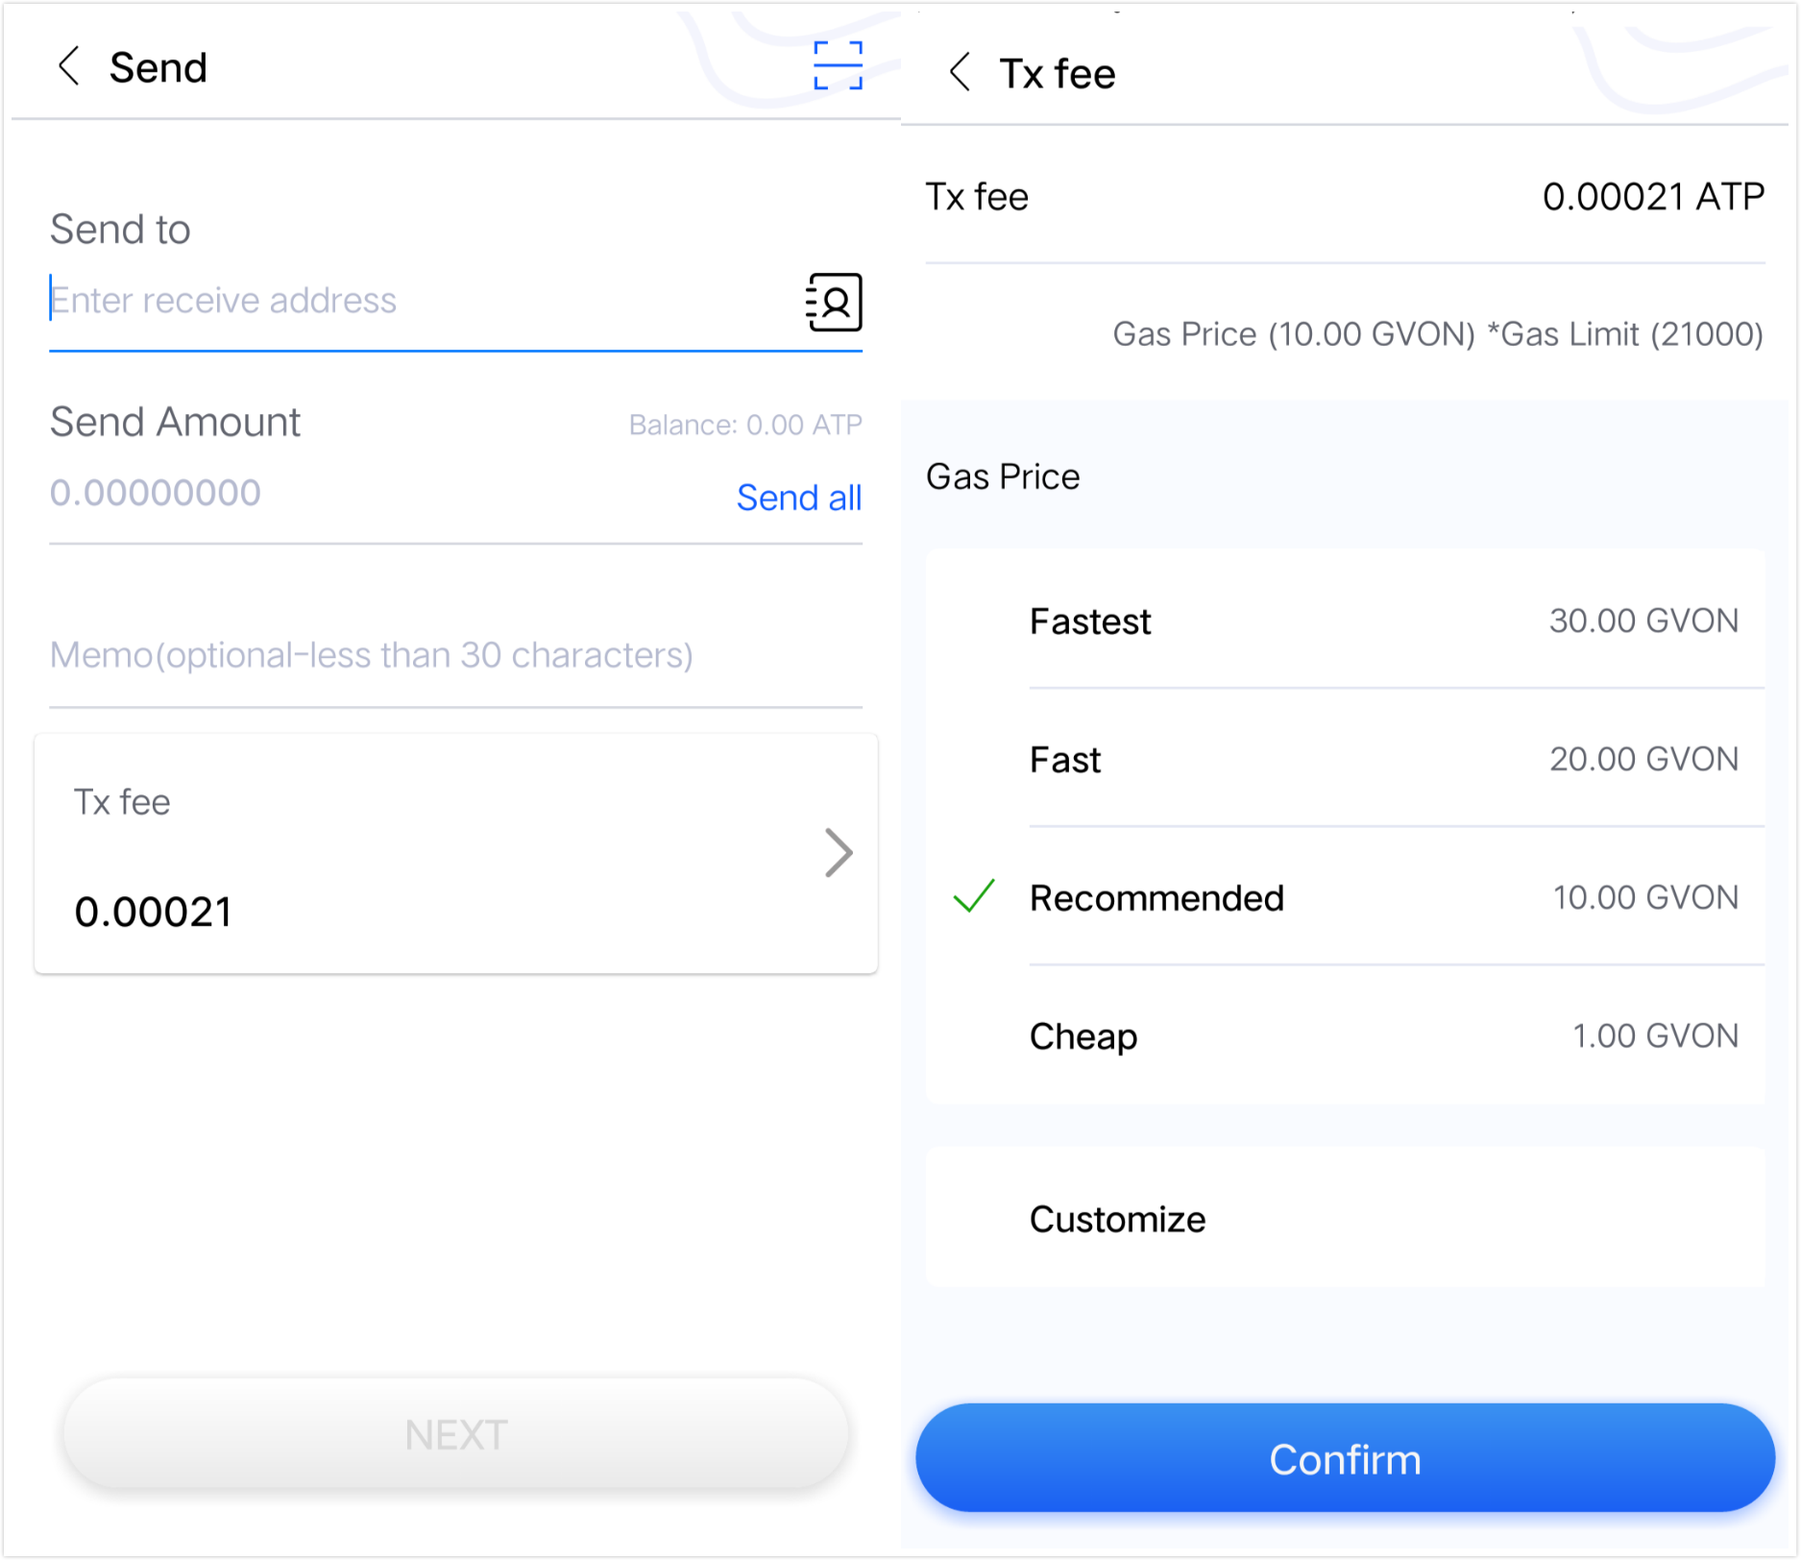
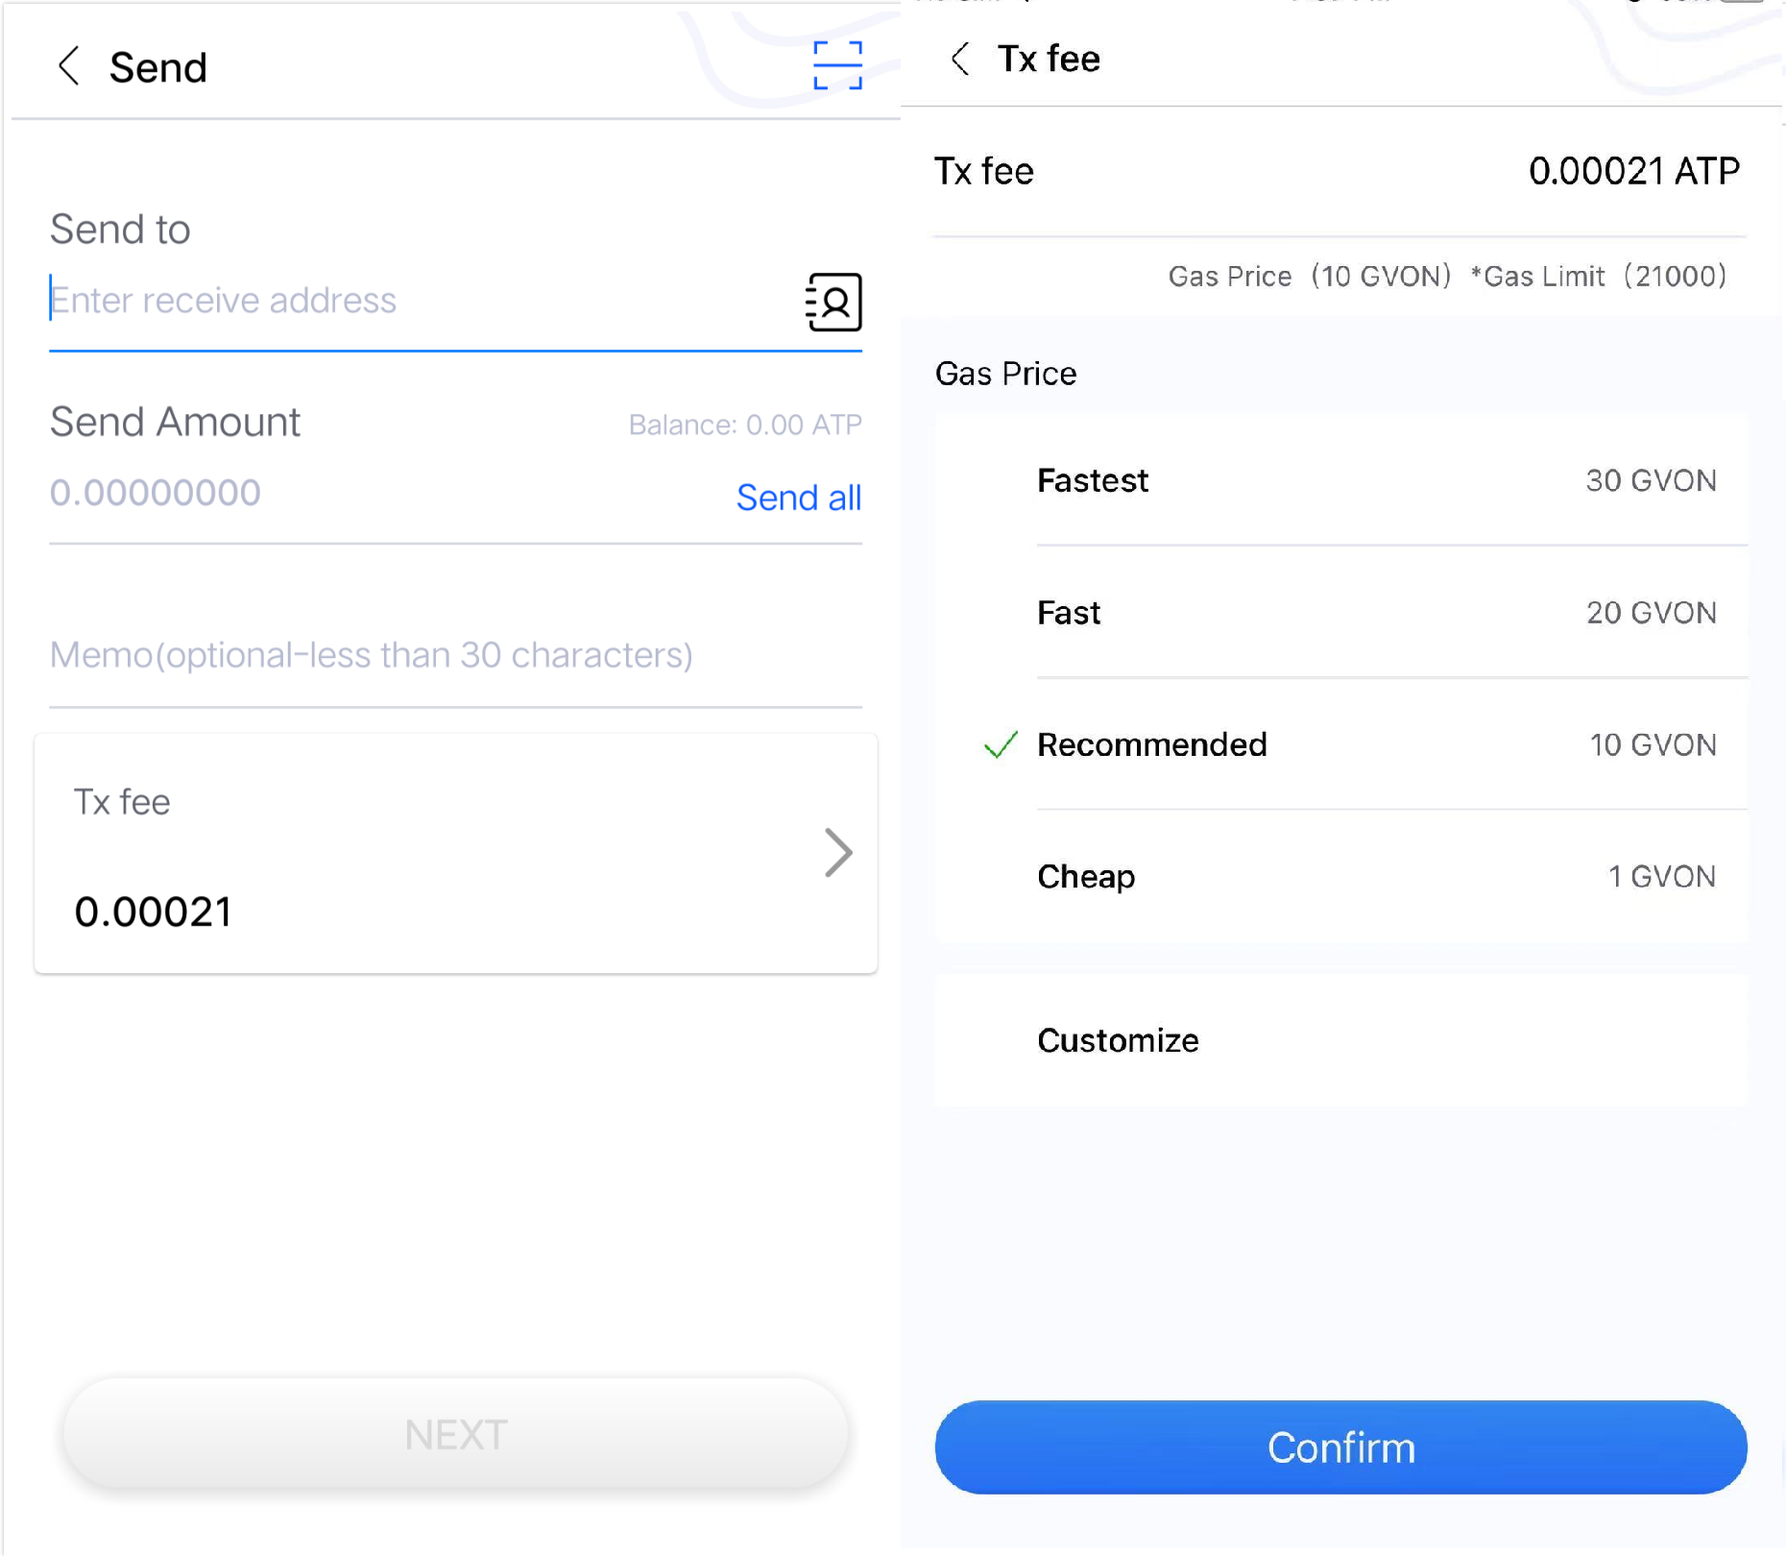
修正手续费字段、委托金额

diff --git a/alaya-devdocs/docs/ATON-user-manual.md b/alaya-devdocs/docs/ATON-user-manual.md
@@ -10,14 +10,15 @@ title: ATON Wallet User Manual
 <div style = "clear: both"> </div>
 <div style = "margin-top: 41px;"> </div>
 
-## Create Wallet
-
 <div>
-<div style = "float: left;"> <img src = "/alaya-devdocs/img/en/ATON-user-manual.assets/aton1.png"width ="500" /> </div> <div> 1. Click [Create Wallet]. <br> 2.Select "Normal" or "HD". Set the wallet name, and password. <br> 3. Click the [Create] button to create a wallet. <br> 4. After the wallet is successfully created, you can click [Start to Backup] to start the backup, or click [Skip] to do it later. <br> <br> <b> Note </b> <br> 1. Password is your credentials to use and manage the wallet.  PlatON does not store your password,Please make sure you keep it in mind.<br> 2. We strongly recommend you to back up your wallet after it is created. <br> 3. Click the Node Switch button at the upper left corner of the page to switch nodes.
+<div style = "float: left;"> <img src = 
+
+"/alaya-devdocs/img/en/ATON-user-manual.assets/aton1.png"width ="500" /> </div> <div> 1. Click [Create Wallet]. <br> 2.Select "Normal" or "HD". Set the wallet name, and password. <br> 3. Click the [Create] button to create a wallet. <br> 4. After the wallet is successfully created, you can click [Start to Backup] to start the backup, or click [Skip] to do it later. <br> <br> <b> Note </b> <br> 1. Password is your credentials to use and manage the wallet.  Servers of ATON does not store your password,Please make sure you keep it in mind.<br> 2. We strongly recommend you to back up your wallet after it is created. <br> 3. Click the Node Switch button at the upper left corner of the page to switch nodes.
 </div>
 <div style="clear:both"></div>
 <div style="margin-top:40px;"></div>
 </div>
+
 
 
 
@@ -148,22 +149,24 @@ title: ATON Wallet User Manual
 ### Import Using Mnemonics
 
 <div>
-<div style = "float: left;"> <img src = "/alaya-devdocs/img/en/ATON-user-manual.assets/aton6.png "width ="500 " style="zoom:80%;" /> </div> <div> <br> 1. Click the [...] button at the top right coner of the main interface, and select [Import Wallet]. Then move to [Mnemonic].. <br> 2. Fill in the mnemonics in the correct order. <br> 3. Select type "Normal" or "HD". Set the wallet name and password. <br> 4. Click the [Start to Import] button. After the mnemonic verification is passed, the wallet is successfully imported. <br> <br> <b> Note </b> <br> 1. Password is your credentials to use and manage the wallet.PlatON does not store your password, make sure you keep it in mind. <br> 2. Store your mnemonics in a safe place. <br> 3. You can also click the "[...]" button on the top right corner to import wallet.
+<div style = "float: left;"> <img src = "/alaya-devdocs/img/en/ATON-user-manual.assets/aton6.png "width ="500 " style="zoom:80%;" /> </div> <div> <br> 1. Click the [...] button at the top right coner of the main interface, and select [Import Wallet]. Then move to [Mnemonic].. <br> 2. Fill in the mnemonics in the correct order. <br> 3. Select type "Normal" or "HD". Set the wallet name and password. <br> 4. Click the [Start to Import] button. After the mnemonic verification is passed, the wallet is successfully imported. <br> <br> <b> Note </b> <br> 1. Password is your credentials to use and manage the wallet.Servers of ATON does not store your password, make sure you keep it in mind. <br> 2. Store your mnemonics in a safe place. <br> 3. You can also click the "[...]" button on the top right corner to import wallet.
 </div>
 <div style="clear:both"></div>
 <div style="margin-top:40px;"></div>
 </div>
+
 
 
 
 ### Import Using Private Key
 
 <div>
-<div style = "float: left;"> <img src = "/alaya-devdocs/img/en/ATON-user-manual.assets/aton7.png "width ="500"style="zoom:80%;" /> </div> <div> <br> 1.Click the [...] button at the top right coner of the main interface, and select [Import Wallet]. Then move to [Private Key]. <br> 2. Input your private key, or scan the QR code to get the private key.<br> 3. Set the wallet name and password. <br> 4. Click the [Start to Import] button. After the verification is passed, the wallet is successfully imported. <br> <br> <b> Note </b> <br> 1. Password is your credentials to use and manage the wallet. PlatON does not store your password, make sure you keep it in mind. <br> 2. Store your private key in a safe place. <br> 3. You can also click the "[...]" button on  the top right corner to import wallet.
+<div style = "float: left;"> <img src = "/alaya-devdocs/img/en/ATON-user-manual.assets/aton7.png "width ="500"style="zoom:80%;" /> </div> <div> <br> 1.Click the [...] button at the top right coner of the main interface, and select [Import Wallet]. Then move to [Private Key]. <br> 2. Input your private key, or scan the QR code to get the private key.<br> 3. Set the wallet name and password. <br> 4. Click the [Start to Import] button. After the verification is passed, the wallet is successfully imported. <br> <br> <b> Note </b> <br> 1. Password is your credentials to use and manage the wallet. Servers of ATON does not store your password, make sure you keep it in mind. <br> 2. Store your private key in a safe place. <br> 3. You can also click the "[...]" button on  the top right corner to import wallet.
 </div>
 <div style="clear:both"></div>
 <div style="margin-top:40px;"></div>
 </div>
+
 
 
 
@@ -247,11 +250,12 @@ For details about importing observed wallets, please refer to the instructions o
 ## Choose Transaction Fee
 
 <div>
-<div style = "float: left;"> <img src = "/alaya-devdocs/img/en/ATON-user-manual.assets/aton12.png "width ="500"style="zoom:80%;" /> </div> <div> <br> 1.The functions of sending, entrusting, redeeming and receiving rewards all incur transaction fees. <br> 2. Take the sending function as an example, click [Transaction Fee] to enter the transaction fee setting page.<br>3. There are 5 choices for transaction fees (fastest, fast, normal, slow, custom). <br> 4. [General] configuration item is selected by default.<br> 5.The user can select the corresponding option according to actual needs.<br> 6.In the [Custom] column, users can enter Gas Price and Gas Limit independently to achieve flexible cost configuration.
+<div style = "float: left;"> <img src = "/alaya-devdocs/img/en/ATON-user-manual.assets/aton12.png "width ="500"style="zoom:80%;" /> </div> <div> <br> 1.The functions of sending, entrusting, redeeming and receiving rewards all incur transaction fees. <br> 2. Take the sending function as an example, click [Transaction Fee] to enter the transaction fee setting page.<br>3. There are 5 choices for transaction fees (Fastest, Fast, Recommended, Cheap, Customize). <br> 4. [General] configuration item is selected by default.<br> 5.The user can select the corresponding option according to actual needs.<br> 6.In the [Custom] column, users can enter Gas Price and Gas Limit independently to achieve flexible cost configuration.
 </div>
 <div style="clear:both"></div>
 <div style="margin-top:40px;"></div>
 </div>
+
 
 
 
@@ -287,11 +291,12 @@ For details about importing observed wallets, please refer to the instructions o
 ### **Participate in** **Delegation**
 
 <div>
-<div style = "float: left;"> <img src = "/alaya-devdocs/img/en/ATON-user-manual.assets/aton15.png "width =" 300 " style="zoom:80%;" /> </div> <div> <br> 1.Select a validator to delegate. If you’ve delegated, then you can check your delegation details via: [Delegate] - [My Delegations]-[Delegation Rec], and then select one validator to continue delegation.<br> 2.Select the wallet you want to delegrate. <br> 3. You can select restricted balance to delegate if there is. <br> 4. Enter the amount, and  it must not be less than 10LAT. <br> 5. Enter the correct password.<br> 6.You can delegate to the  nodes you’ve delegated, no limit to the delegation times.<br> <br> <b> Note </b> <br> 1.Delegators delegates ATP to validtaors, when the delegated validators get profit, delegators will win the profits according to the delegation ratio set by validators;<br>2. The wallet address connected to profit validators can’t be used to delegate.<br>3. The delegated ATP will be valid at the next settlement interval.
+<div style = "float: left;"> <img src = "/alaya-devdocs/img/en/ATON-user-manual.assets/aton15.png "width =" 300 " style="zoom:80%;" /> </div> <div> <br> 1.Select a validator to delegate. If you’ve delegated, then you can check your delegation details via: [Delegate] - [My Delegations]-[Delegation Rec], and then select one validator to continue delegation.<br> 2.Select the wallet you want to delegrate. <br> 3. You can select restricted balance to delegate if there is. <br> 4. Enter the amount, and  it must not be less than 1 ATP. <br> 5. Enter the correct password.<br> 6.You can delegate to the  nodes you’ve delegated, no limit to the delegation times.<br> <br> <b> Note </b> <br> 1.Delegators delegates ATP to validtaors, when the delegated validators get profit, delegators will win the profits according to the delegation ratio set by validators;<br>2. The wallet address connected to profit validators can’t be used to delegate.<br>3. The delegated ATP will be valid at the next settlement interval.
 </div>
 <div style="clear:both"></div>
 <div style="margin-top:40px;"></div>
 </div>
+
 
 
 
@@ -311,11 +316,12 @@ For details about importing observed wallets, please refer to the instructions o
 ### Withdraw Delegation
 
 <div>
-<div style = "float: left;"> <img src = "/alaya-devdocs/img/en/ATON-user-manual.assets/aton17.png "width =" 300 " style="zoom:80%;" /> </div> <div> <br> 1. Click You can withdraw your delegation via: [My Delegations]-[Delegation Rec]-[Withdraw]. <br> 2. Enter the number,it should  be greater than or equal to 10ATP. Enter your password to proceed the process.<br> <br> <b> Note </b> <br> 1.Your delegated LAT will be back to your wallet immediately after you withdraw the delegation successfully. <br> 2. When withdrawing all delegations, the delegation rewards will be claimed automatically.
+<div style = "float: left;"> <img src = "/alaya-devdocs/img/en/ATON-user-manual.assets/aton17.png "width =" 300 " style="zoom:80%;" /> </div> <div> <br> 1. Click You can withdraw your delegation via: [My Delegations]-[Delegation Rec]-[Withdraw]. <br> 2. Enter the number,it should  be greater than or equal to 1ATP. Enter your password to proceed the process.<br> <br> <b> Note </b> <br> 1.Your delegated ATP will be back to your wallet immediately after you withdraw the delegation successfully. <br> 2. When withdrawing all delegations, the delegation rewards will be claimed automatically.
 </div>
 <div style="clear:both"></div>
 <div style="margin-top:40px;"></div>
 </div>
+
 
 
 
@@ -395,7 +401,8 @@ If you have set up observed wallets and cold wallets, you can initiate transfers
 ## Change Password
 
 <div>
-<div style = "float: left;"> <img src = "/alaya-devdocs/img/en/ATON-user-manual.assets/aton24.jpg "width =" 250 " style="zoom:80%;" /><img src = "/alaya-devdocs/img/en/ATON-user-manual.assets/aton25.jpg "width =" 250 " style="zoom:80%;" /> </div></div><br> 1. Move to [Me] - [Wallet Management] - [Change Password].<br> 2. Input the original password and click Confirm.<br> 3. Set new password and click Confirm.<br> 4. Click the [Confirm] button,then the wallet's password is successfully changed.<br><br> <b> Note </b> <br> 1. Password is your credentials to use and manage the wallet. PlatON does not store your password, make sure you keep it in mind.
+<div style = "float: left;"> <img src = "/alaya-devdocs/img/en/ATON-user-manual.assets/aton24.jpg "width =" 250 " style="zoom:80%;" /><img src = "/alaya-devdocs/img/en/ATON-user-manual.assets/aton25.jpg "width =" 250 " style="zoom:80%;" /> </div></div><br> 1. Move to [Me] - [Wallet Management] - [Change Password].<br> 2. Input the original password and click Confirm.<br> 3. Set new password and click Confirm.<br> 4. Click the [Confirm] button,then the wallet's password is successfully changed.<br><br> <b> Note </b> <br> 1. Password is your credentials to use and manage the wallet. Servers of ATON does not store your password, make sure you keep it in mind.
+
 
 
 

diff --git a/alaya-devdocs/docs/zh-CN/ATON-user-manual.md b/alaya-devdocs/docs/zh-CN/ATON-user-manual.md
@@ -234,11 +234,12 @@ title: ATON钱包用户使用手册
 ## 选择交易手续费
 
 <div>
-<div style="float:left;"><img src="/alaya-devdocs/img/zh-CN/ATON-manual-cn.assets/aton12.png" width="500" style="zoom:80%;" /></div><div><br>1.发送、委托、赎回和领取奖励功能都会产生交易手续费。<br>2.以发送功能为例，点击【交易手续费】，可以进入交易手续费设置页面。<br>3.交易手续费有5种选择（最快、快速、一般、缓慢、自定义）。<br>4.默认选中【一般】配置项。<br>5.用户可以根据实际需要选择相应的选项。<br>6.其中【自定义】一栏用户可以自主输入Gas Price和Gas Limit来实现灵活化的费用配置。
+<div style="float:left;"><img src="/alaya-devdocs/img/zh-CN/ATON-manual-cn.assets/aton12.png" width="500" style="zoom:80%;" /></div><div><br>1.发送、委托、赎回和领取奖励功能都会产生交易手续费。<br>2.以发送功能为例，点击【交易手续费】，可以进入交易手续费设置页面。<br>3.交易手续费有5种选择（最快、快速、推荐、便宜、自定义）。<br>4.默认选中【推荐】配置项。<br>5.用户可以根据实际需要选择相应的选项。<br>6.其中【自定义】一栏用户可以自主输入Gas Price和Gas Limit来实现灵活化的费用配置。
 </div>
 <div style="clear:both"></div>
 <div style="margin-top:40px;"></div>
 </div>
+
 
 
 ## 节点
@@ -268,11 +269,12 @@ title: ATON钱包用户使用手册
 ### 参与委托
 
 <div>
-<div style="float:left;"><img src="/alaya-devdocs/img/zh-CN/ATON-manual-cn.assets/aton15.png" width="300" style="zoom:80%;"  /></div><div><br>1. 可点击【委托-验证节点】，选择某个节点进行委托。如果已委托过，可点击【委托-我的委托-委托节点详情】，选择某个节点继续进行委托。<br>2. 进入页面，选择需要委托的钱包。<br>3. 如果钱包有锁仓金额，可点击委托钱包余额选项栏进行切换，使用锁仓金额进行委托（注意钱包余额需足够支付委托交易手续费）。<br>4. 输入委托的金额，每次委托不得小于10ATP。<br>5. 输入正确的密码即可完成委托。<br>6. 已委托过的节点，可再次进行委托，无次数限制。<br><br><b>注意</b><br>1. 委托人将ATP委托给节点，当委托的节点产生收益时，委托人将会获得基于节点配置的委托奖励比例分配的收益。<br>2. 收益节点关联的钱包地址，不可参与委托。<br>3. 委托的ATP在下个结算周期才开始生效。
+<div style="float:left;"><img src="/alaya-devdocs/img/zh-CN/ATON-manual-cn.assets/aton15.png" width="300" style="zoom:80%;"  /></div><div><br>1. 可点击【委托-验证节点】，选择某个节点进行委托。如果已委托过，可点击【委托-我的委托-委托节点详情】，选择某个节点继续进行委托。<br>2. 进入页面，选择需要委托的钱包。<br>3. 如果钱包有锁仓金额，可点击委托钱包余额选项栏进行切换，使用锁仓金额进行委托（注意钱包余额需足够支付委托交易手续费）。<br>4. 输入委托的金额，每次委托不得小于1ATP。<br>5. 输入正确的密码即可完成委托。<br>6. 已委托过的节点，可再次进行委托，无次数限制。<br><br><b>注意</b><br>1. 委托人将ATP委托给节点，当委托的节点产生收益时，委托人将会获得基于节点配置的委托奖励比例分配的收益。<br>2. 收益节点关联的钱包地址，不可参与委托。<br>3. 委托的ATP在下个结算周期才开始生效。
 </div>
 <div style="clear:both"></div>
 <div style="margin-top:40px;"></div>
 </div>
+
 
 
 ### 查看我的委托
@@ -288,11 +290,12 @@ title: ATON钱包用户使用手册
 ### 赎回委托
 
 <div>
-<div style="float:left;"><img src="/alaya-devdocs/img/zh-CN/ATON-manual-cn.assets/aton17.png" width="500"style="zoom:80%;" /></div><div><br>1. 点击【委托-我的委托-详情-赎回委托】可进行赎回。<br>2. 输入想要赎回的数量，数量需大于等于10ATP，输入正确的密码即可完成赎回委托操作。<br><br><b>注意:</b><br>1. 赎回委托，将立即到账。<br>2. 操作全部赎回时，将自动领取委托奖励。
+<div style="float:left;"><img src="/alaya-devdocs/img/zh-CN/ATON-manual-cn.assets/aton17.png" width="500"style="zoom:80%;" /></div><div><br>1. 点击【委托-我的委托-详情-赎回委托】可进行赎回。<br>2. 输入想要赎回的数量，数量需大于等于1ATP，输入正确的密码即可完成赎回委托操作。<br><br><b>注意:</b><br>1. 赎回委托，将立即到账。<br>2. 操作全部赎回时，将自动领取委托奖励。
 </div>
 <div style="clear:both"></div>
 <div style="margin-top:40px;"></div>
 </div>
+
 
 ## 设置观察钱包与冷钱包
 
